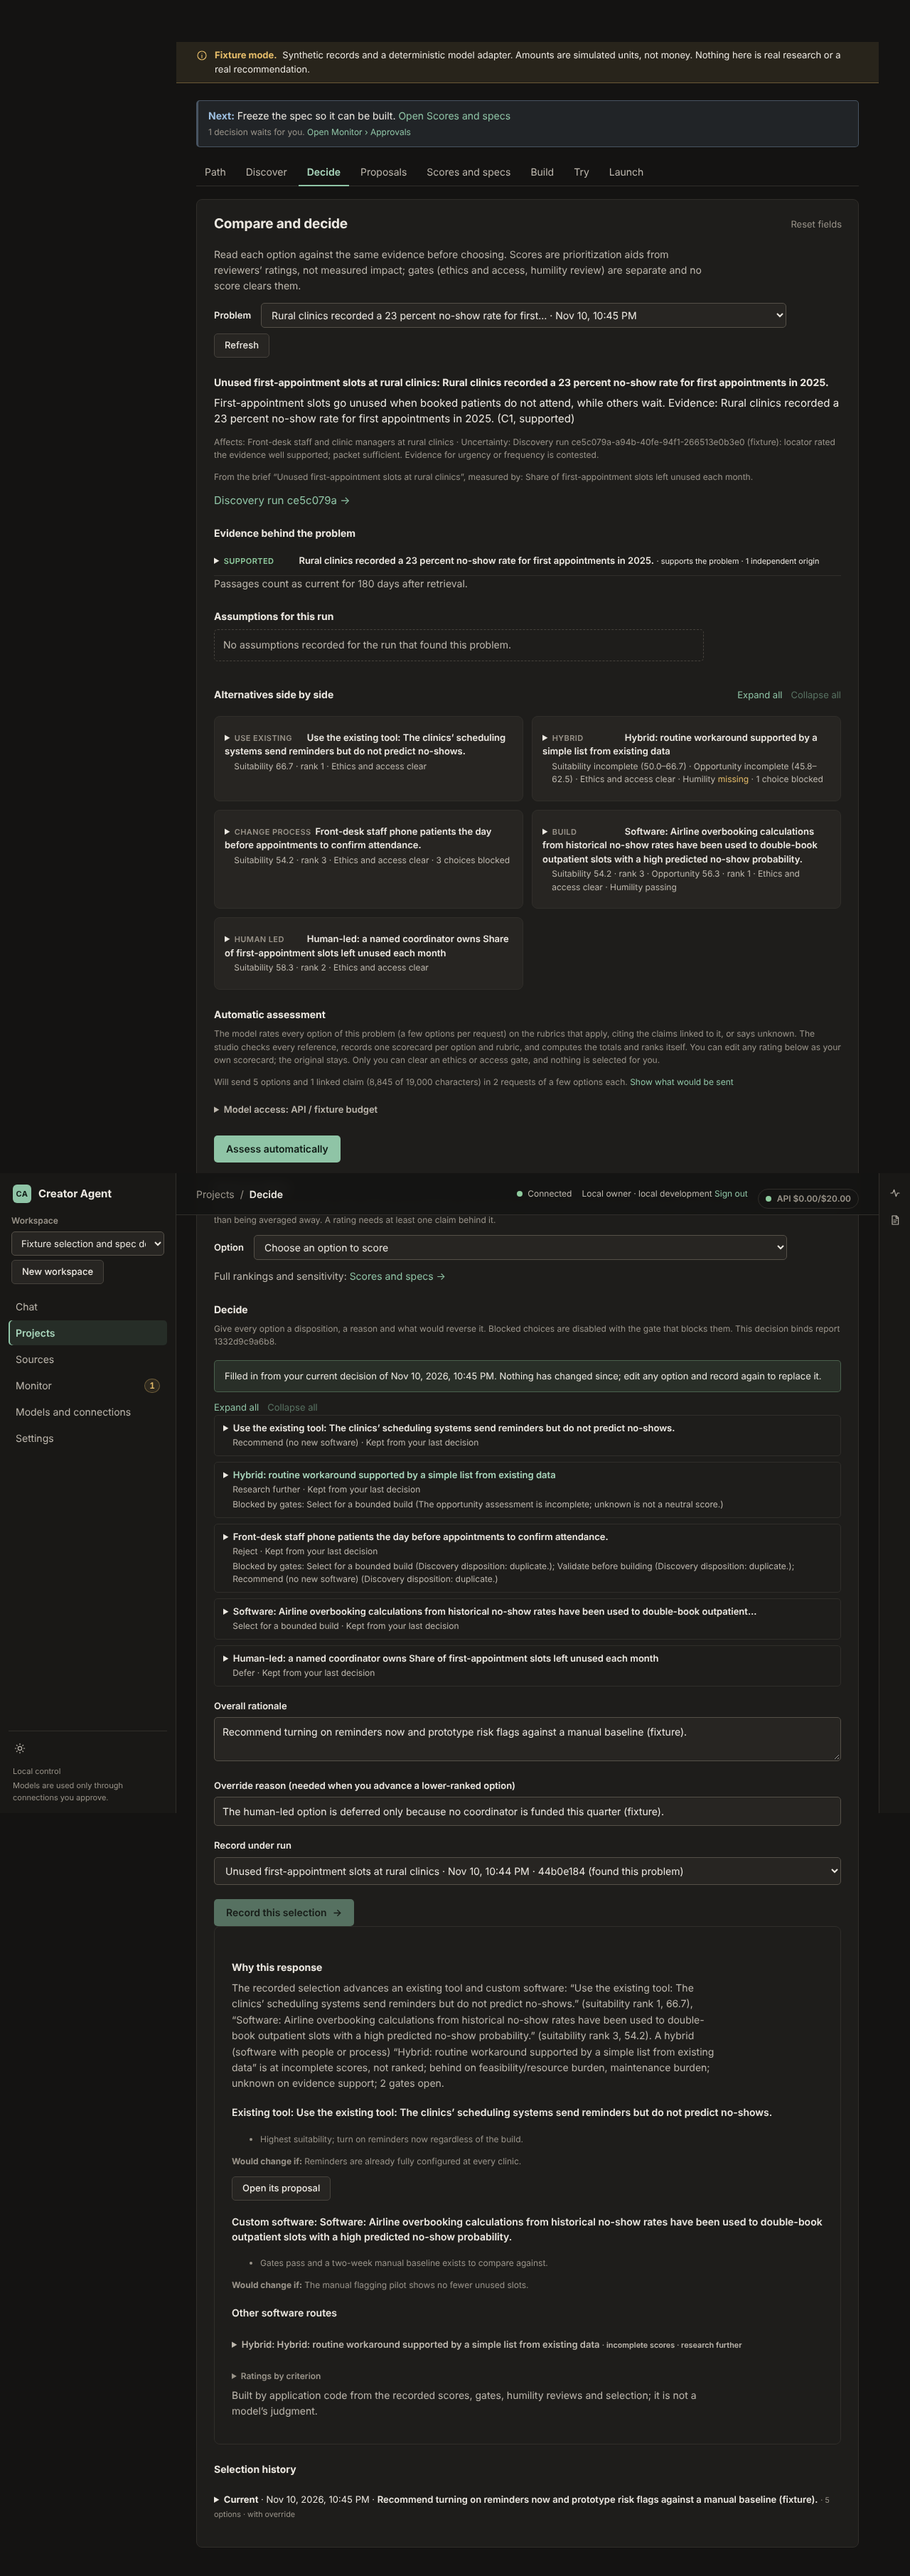
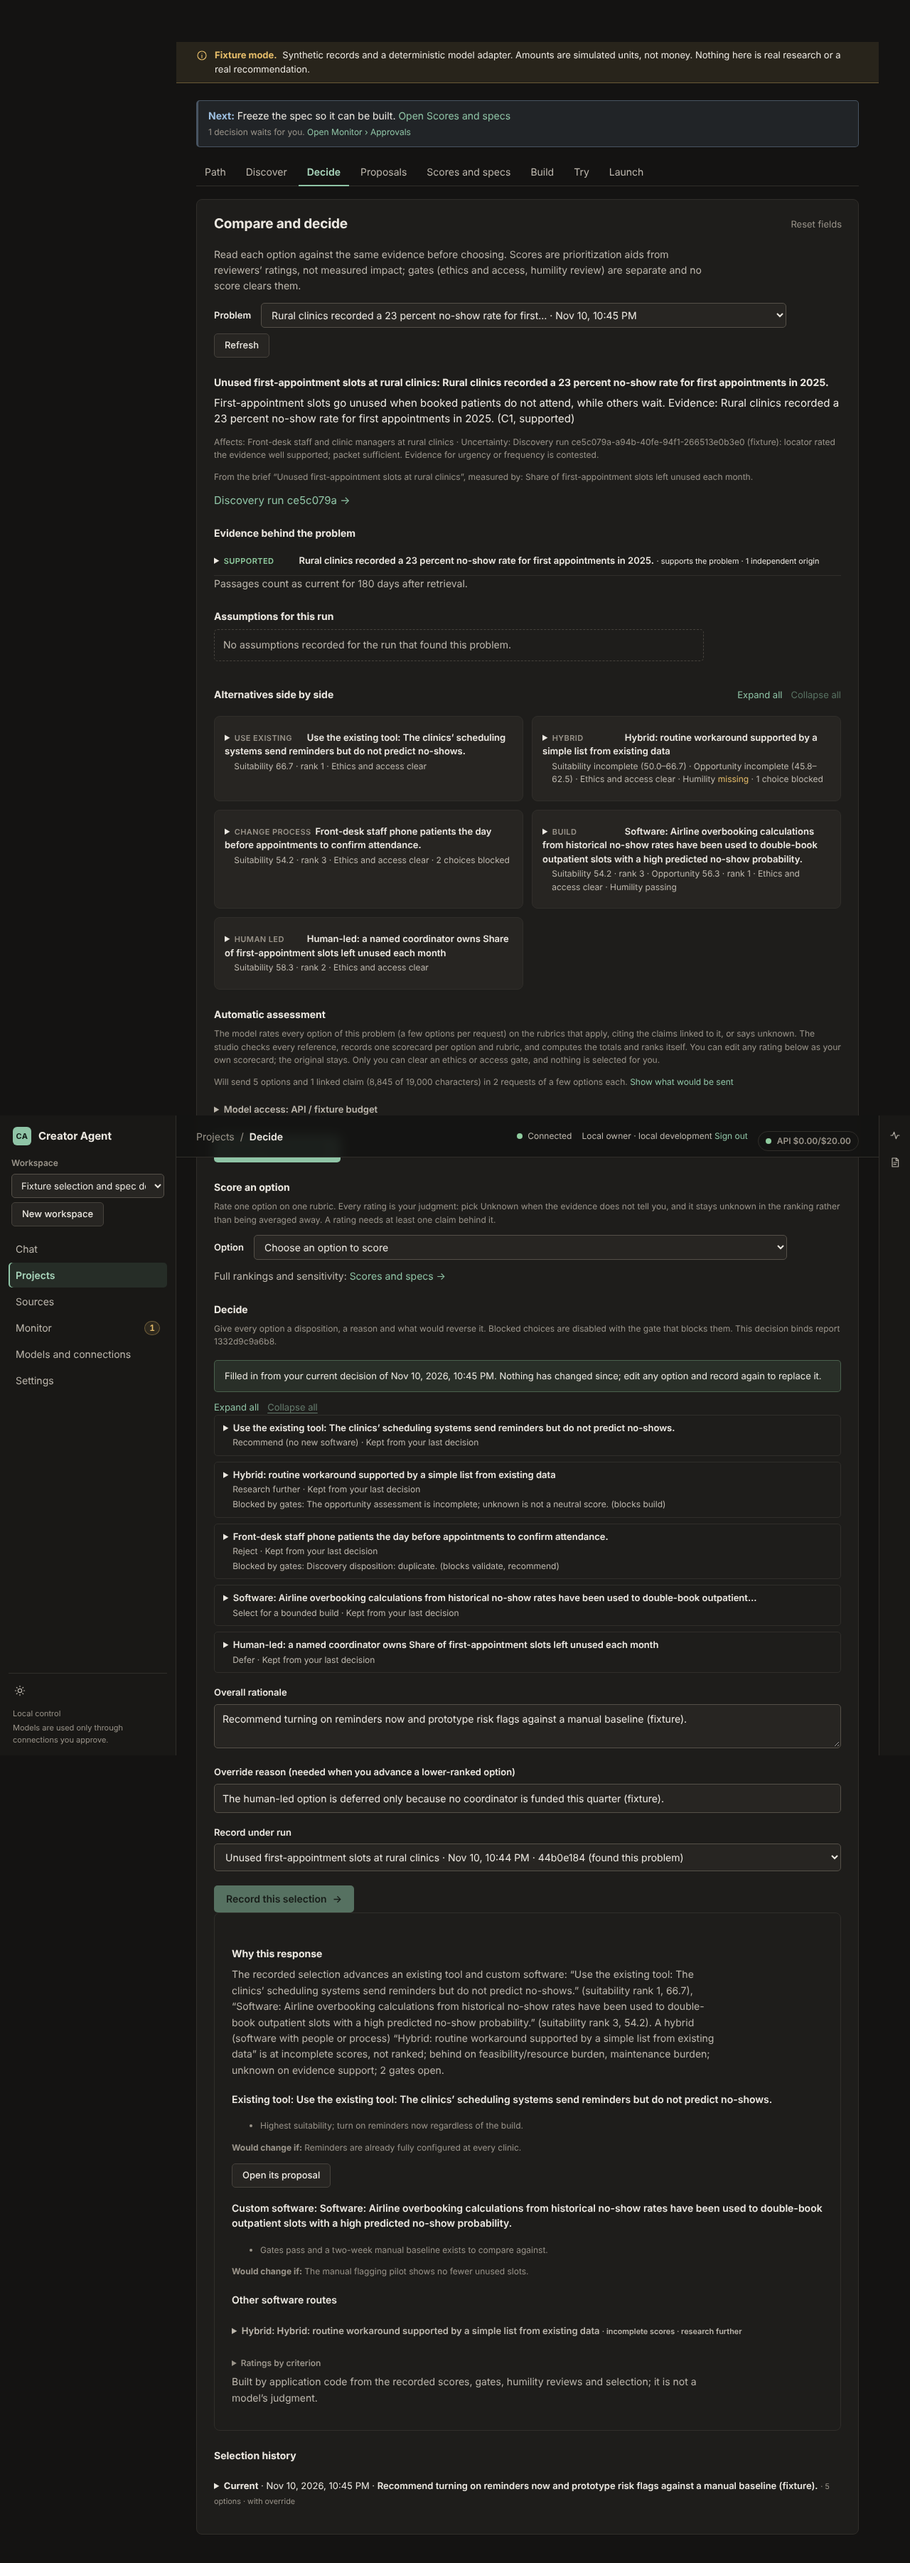
P18 second re-review fixes R2-1, R3-1, R3-2, N-1
R2-1 a new draft keeps its opened sections on first save; R3-1 choices the option's kind
rules out leave the Decide summary and count; R3-2 blocked choices grouped by reason;
N-1 kindAllows in contracts is the one rule for the domain's kind blocks and the web.

Claude-Session: https://claude.ai/code/session_01JTbuZpyaYGiyVUZMP5WrwX

diff --git a/apps/web/src/compare.tsx b/apps/web/src/compare.tsx
@@ -7,6 +7,7 @@ import {
   SelectionSchema,
   SelectionDispositionSchema,
   StoredEntitySchema,
+  kindAllows,
   WorkflowDetailSchema,
   z,
   type ClaimEvidence,
@@ -32,7 +33,7 @@ import {
 } from './ui.js';
 import { newestFirst } from './versions.js';
 import { Fold, FoldAll, useFolds } from './fold.js';
-import { firstNeeding, nameList } from './fold-state.js';
+import { firstNeeding, groupByReason, nameList } from './fold-state.js';
 import { runLabel } from './labels.js';
 import { HumilityForm } from './humility.js';
 import { ResponseExplanationPanel } from './proposals.js';
@@ -77,19 +78,6 @@ function pendingReviews(
   return out;
 }
 
-/**
- * Blocks that follow from an option's kind and that no review or score can clear (the
- * wording of packages/domain/src/selection.ts). Shown in the dropdown, not in summaries.
- */
-const KIND_BLOCKS = [
-  'has no software to build',
-  'Custom software is selected for build or validation',
-  'outcome is not a response to recommend',
-  'A failed outcome cannot be validated',
-];
-const kindBlock = (reason: string) =>
-  KIND_BLOCKS.some((k) => reason.includes(k));
-
 const FRESH_NOTE: Record<string, string> = {
   current: 'current',
   stale: 'older than the freshness limit',
@@ -98,6 +86,15 @@ const FRESH_NOTE: Record<string, string> = {
   removed: 'source removed',
   claim_changed: 'claim changed since',
   retracted: 'support retracted',
+};
+/** Short names for the one-line "Blocked by gates" summary. */
+const DISPOSITION_SHORT: Record<SelectionDisposition, string> = {
+  select_for_build: 'build',
+  proceed_to_validation: 'validate',
+  recommend_alternative: 'recommend',
+  research_further: 'research further',
+  defer: 'defer',
+  reject: 'reject',
 };
 const DISPOSITION_NOTE: Record<SelectionDisposition, string> = {
   select_for_build: 'Select for a bounded build',
@@ -477,19 +474,24 @@ export function Compare({
   const altFolds = useFolds(firstNeeding(altIds, changedSince));
   const rowFolds = useFolds(viewer ? [] : firstNeeding(altIds, needsYou));
   const historyFolds = useFolds([]);
-  const blockedCount = (id: string) =>
-    Object.values(suit.get(id)?.gates.blocked ?? {}).filter((x) =>
-      x?.some((r) => !kindBlock(r)),
-    ).length;
-  // Review L-2: which choices gates block, and the first reason for each. Re-review R-3:
-  // only reasons the person can clear; a block that follows from the option's kind (e.g.
-  // "has no software to build") stays in the dropdown, not in every summary.
+  // Review L-2, re-review R-3/R3-1/R3-2: the blocked choices a person can do something
+  // about. A choice the option's kind rules out (kindAllows) never becomes available, so it
+  // stays in the dropdown only; the rest are grouped by reason so a shared one shows once.
+  const clearable = (id: string) => {
+    const kind = String(
+      alts.find((a) => a.entity.id === id)?.entity.body?.kind ?? '',
+    );
+    return SelectionDispositionSchema.options.flatMap((o) => {
+      const why = suit.get(id)?.gates.blocked[o];
+      return why?.length && kindAllows(kind, o)
+        ? [[DISPOSITION_SHORT[o], why] as const]
+        : [];
+    });
+  };
+  const blockedCount = (id: string) => clearable(id).length;
   const blockedText = (id: string) =>
-    SelectionDispositionSchema.options
-      .flatMap((o) => {
-        const why = suit.get(id)?.gates.blocked[o]?.find((r) => !kindBlock(r));
-        return why ? [`${DISPOSITION_NOTE[o]} (${clip(why, 90)})`] : [];
-      })
+    groupByReason(clearable(id))
+      .map((g) => `${clip(g.reason, 90)} (blocks ${g.choices.join(', ')})`)
       .join('; ');
   return (
     <section className="panel" aria-labelledby="cmp-title">

diff --git a/tests/src/web-folds.test.ts b/tests/src/web-folds.test.ts
@@ -82,3 +82,57 @@ test('blocked actions name the items they wait on', async () => {
   assert.equal(nameList(['A', 'B', 'C']), 'A, B and C');
   assert.equal(nameList(['A', 'B', 'C', 'D', 'E']), 'A, B, C and 2 more');
 });
+
+test('a reason shared by several blocked choices is written once', async () => {
+  const { groupByReason } = await load<
+    Mod & {
+      groupByReason: (
+        b: readonly (readonly [string, readonly string[]])[],
+      ) => { reason: string; choices: string[] }[];
+    }
+  >('fold-state.ts');
+  assert.deepEqual(
+    groupByReason([
+      ['build', ['Ethics not assessed.', 'Opportunity incomplete.']],
+      ['validate', ['Ethics not assessed.']],
+      ['recommend', ['Discovery: duplicate.']],
+      ['defer', []],
+    ]),
+    [
+      { reason: 'Ethics not assessed.', choices: ['build', 'validate'] },
+      { reason: 'Discovery: duplicate.', choices: ['recommend'] },
+    ],
+  );
+});
+
+test('kind blocks come from one rule the domain and the summaries share', async () => {
+  const { kindAllows } = await import('@creator/contracts');
+  const allowed = (kind: string) =>
+    (
+      [
+        'select_for_build',
+        'proceed_to_validation',
+        'recommend_alternative',
+        'research_further',
+        'defer',
+        'reject',
+      ] as const
+    ).filter((d) => kindAllows(kind, d));
+  assert.deepEqual(allowed('build'), [
+    'select_for_build',
+    'proceed_to_validation',
+    'research_further',
+    'defer',
+    'reject',
+  ]);
+  assert.deepEqual(allowed('hybrid').length, 6);
+  for (const k of ['use_existing', 'change_process', 'human_led'])
+    assert.deepEqual(allowed(k), [
+      'proceed_to_validation',
+      'recommend_alternative',
+      'research_further',
+      'defer',
+      'reject',
+    ]);
+  assert.deepEqual(allowed('failed'), ['research_further', 'defer', 'reject']);
+});

diff --git a/packages/domain/src/selection.ts b/packages/domain/src/selection.ts
@@ -1,6 +1,7 @@
 import {
   RUBRICS,
   ScorecardBodySchema,
+  kindAllows,
   type ExactScore,
   type RankedCandidate,
   type RubricDefinition,
@@ -101,7 +102,6 @@ export interface CandidateInput {
   humility_reasons: readonly string[];
 }
 const SOFTWARE_KINDS = ['build', 'hybrid'];
-const RECOMMENDABLE = ['use_existing', 'change_process', 'human_led', 'hybrid'];
 const HARD_DISCOVERY_BLOCKS = [
   'duplicate',
   'rejected',
@@ -283,7 +283,7 @@ function gatesFor(c: CandidateInput, cards: Parsed[], opportunity: string) {
   // select_for_build
   block(
     'select_for_build',
-    SOFTWARE_KINDS.includes(kind)
+    kindAllows(kind, 'select_for_build')
       ? null
       : `A ${kind.replaceAll('_', ' ')} response has no software to build; it cannot be made build-ready.`,
   );
@@ -309,7 +309,7 @@ function gatesFor(c: CandidateInput, cards: Parsed[], opportunity: string) {
   // recommend_alternative
   block(
     'recommend_alternative',
-    RECOMMENDABLE.includes(kind)
+    kindAllows(kind, 'recommend_alternative')
       ? null
       : kind === 'build'
         ? 'Custom software is selected for build or validation, not recommended as an alternative.'
@@ -320,7 +320,9 @@ function gatesFor(c: CandidateInput, cards: Parsed[], opportunity: string) {
   // proceed_to_validation
   block(
     'proceed_to_validation',
-    kind === 'failed' ? 'A failed outcome cannot be validated.' : null,
+    kindAllows(kind, 'proceed_to_validation')
+      ? null
+      : 'A failed outcome cannot be validated.',
   );
   block('proceed_to_validation', ethicsReason);
   block(

diff --git a/packages/contracts/src/selection.ts b/packages/contracts/src/selection.ts
@@ -350,6 +350,24 @@ export const SelectionDispositionSchema = z.enum([
   'reject',
 ]);
 export type SelectionDisposition = z.infer<typeof SelectionDispositionSchema>;
+/**
+ * Whether an option of this kind can ever take the disposition. A disposition its kind rules
+ * out stays blocked whatever reviews or scores say (the domain's kind blocks); the web leaves
+ * such choices out of its short summaries (P18 re-review R3-1, N-1).
+ */
+export function kindAllows(
+  kind: string,
+  disposition: SelectionDisposition,
+): boolean {
+  if (disposition === 'select_for_build')
+    return ['build', 'hybrid'].includes(kind);
+  if (disposition === 'recommend_alternative')
+    return ['use_existing', 'change_process', 'human_led', 'hybrid'].includes(
+      kind,
+    );
+  if (disposition === 'proceed_to_validation') return kind !== 'failed';
+  return true;
+}
 export const ADVANCING_DISPOSITIONS: readonly SelectionDisposition[] = [
   'select_for_build',
   'proceed_to_validation',

diff --git a/apps/web/src/fold-state.ts b/apps/web/src/fold-state.ts
@@ -44,3 +44,21 @@ export function nameList(names: readonly string[], max = 3): string {
   }
   return `${names.slice(0, max).join(', ')} and ${names.length - max} more`;
 }
+
+/**
+ * P18 re-review R3-2: blocked choices grouped by their first reason, so one shared reason
+ * (e.g. ethics not assessed) is written once with the choices it blocks.
+ */
+export function groupByReason(
+  blocked: readonly (readonly [choice: string, reasons: readonly string[]])[],
+): { reason: string; choices: string[] }[] {
+  const out: { reason: string; choices: string[] }[] = [];
+  for (const [choice, reasons] of blocked) {
+    const reason = reasons[0];
+    if (!reason) continue;
+    const group = out.find((g) => g.reason === reason);
+    if (group) group.choices.push(choice);
+    else out.push({ reason, choices: [choice] });
+  }
+  return out;
+}

diff --git a/apps/web/src/proposals.tsx b/apps/web/src/proposals.tsx
@@ -328,6 +328,8 @@ export function Proposals({
       );
       setDraft({ draft: d, eligible: e });
       setSectionChoices({});
+      // Re-review R2-1: the draft's first saved id must not count as "another proposal".
+      shownProposal.current = '';
       onFocus('');
     } catch (err) {
       setError(message(err));

diff --git a/tracking/BUILD_STATUS.md b/tracking/BUILD_STATUS.md
@@ -909,3 +909,20 @@ row arrives with docs PR #158). Web only; no data, route, gate, scoring or API c
   created through the API on the throwaway database.
 - Checks (cloud container, PostgreSQL 16, no CI): `pnpm typecheck` and `pnpm format:check` pass; `pnpm test:db` 910
   tests, 876 pass, 29 skip, 5 fail (the known no-`pwsh` wrapper tests). `web-session.test.ts` stub gains `useOnShow`.
+
+### P18 second re-review fixes (November 11, same PR #162; `reviews/P18_PR162_REREVIEW2_2026-11-11.md`, 3 Lows and a nit)
+
+- R2-1 Proposals: starting a new draft while another proposal is open resets the remembered proposal, so the draft's
+  first save keeps the sections the person opened.
+- R3-1 Decide: a choice the option's kind rules out is left out of the summary and the "N choices blocked" count,
+  whatever its other reasons. N-1: the rule is now one function, `kindAllows` in `packages/contracts/src/selection.ts`,
+  used by the domain's kind blocks (`packages/domain/src/selection.ts`) and by the web, instead of matching the
+  domain's wording; tested in `tests/src/web-folds.test.ts`.
+- R3-2 Decide: the "Blocked by gates" line groups choices by reason ("Discovery disposition: duplicate. (blocks
+  validate, recommend)"), so a shared reason is written once.
+- Evidence: walk re-run (output replaced). Collapsed option summaries 52/73/73/52/52 px at 1280 and 110/129/111/110/91
+  px at 390 (the change-process option with a duplicate discovery went from 91 to 73 px at 1280). The revised-option
+  case (ethics not assessed) and R2-1 were checked from the code; the walk data has no revised option and no option
+  left to start a proposal for.
+- Checks (cloud container, PostgreSQL 16, no CI): `pnpm typecheck` and `pnpm format:check` pass; `pnpm test:db` 912
+  tests, 878 pass, 29 skip, 5 fail (the known no-`pwsh` wrapper tests). Domain selection tests pass with `kindAllows`.
